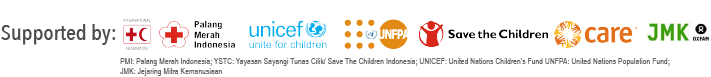
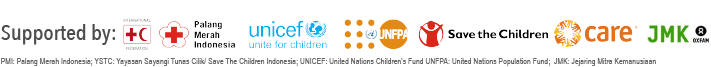
ver.4

Changed region(s): [[0.0, 0.2388, 1.0, 0.9851]]

diff --git a/index.html b/index.html
@@ -242,7 +242,7 @@
 					<div class="col-md-12">
 						<table width = '100%'>
 							<tr>
-								<td align='left'; valign='top'><img style="height: 70%; margin-top: 0px; padding-left: 15px"; class="img-responsive hdx" src='images/support-v2.png'></td>
+								<td align='left'; valign='top'><img style="height: 80%; margin-top: 0px; padding-left: 15px"; class="img-responsive hdx" src='images/support-v2.png'></td>
 								<!-- <a target="_blank" href="https://data.humdata.org"> -->
 								<td align='right'; valign='top'><img style="height: 60%; margin-top: 15px; padding-right: 15px"; class="img-responsive hdx" src='images/poweredby.png'></td>
 							</tr>
@@ -408,6 +408,11 @@
 						  redrawbasestat(data[sel+1][0]);
 					  	});
 						}
+					setTimeout(function(){
+						$('#datatable_filter label').contents().first().replaceWith('Pencarian (berdasarkan nilai di kolom table)');
+						$('input[type="search"]').attr('placeholder','contoh: Palu');
+						
+					},1500)
 		    	}
 
 		  // BarChart1 ----------------------------------------------------------------------------------------------------------------------------------------
@@ -607,7 +612,7 @@
 				            { title: "Saluran umpan balik" },
 				            { title: "Status" },
 				            // { title: "Complaint Category" },
-				            { title: "Kabupaten/Kota" },
+				            { title: "Kabupaten/ Kota" },
 				            { title: "Kecamatan" },
 				            // { title: "Desa/posko/huntara" },
 				            // { title: "LAT"},

diff --git a/style.css b/style.css
@@ -186,7 +186,7 @@ div.dataTables_wrapper div.dataTables_filter label {
     font-size: 0.9rem;
 }
 #datatable_length{
-	font-size: 0.9rem;
+	font-size: 0.7rem;
 }
 
 
